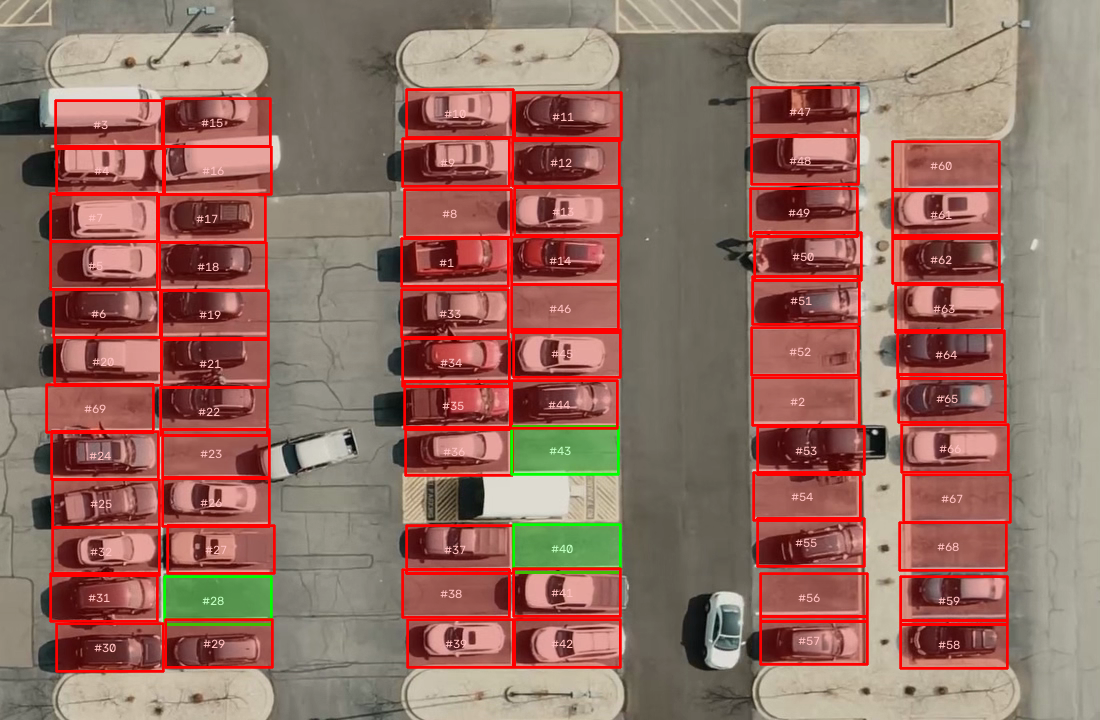
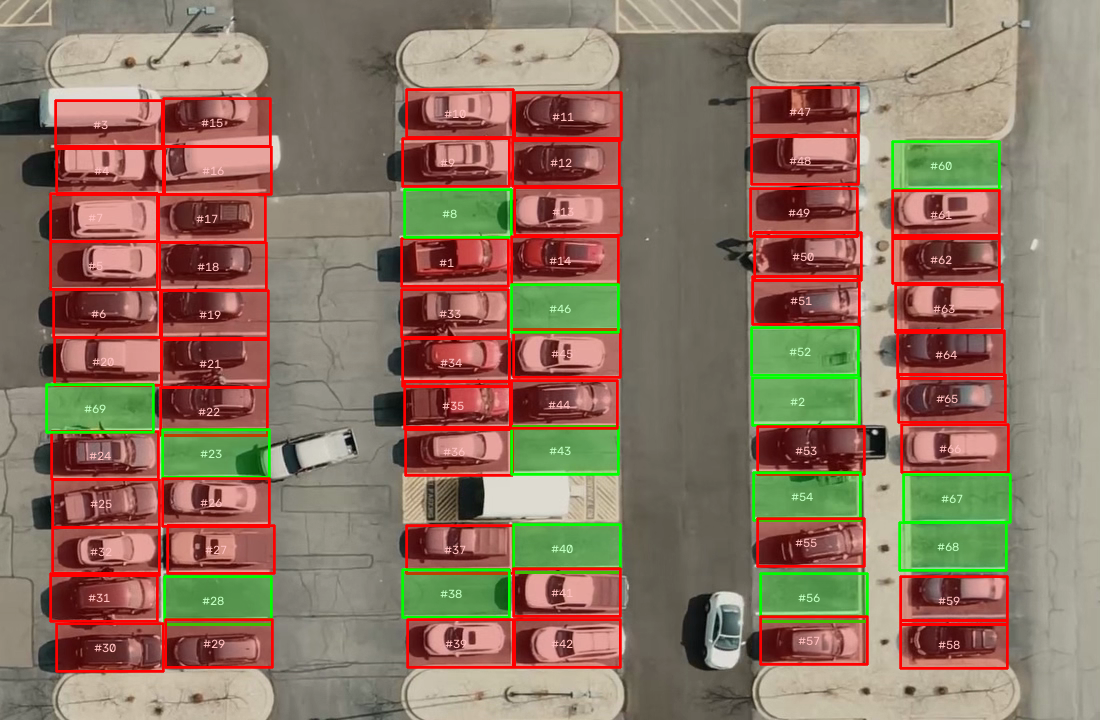
Fix parking slot false positives

diff --git a/Project1/src/detector.py b/Project1/src/detector.py
@@ -2,9 +2,8 @@ import cv2
 import numpy as np
 from ultralytics import YOLO
 import src.config as config
-from src.geometry import calculate_overlap_ios
 from src.traditional_cv import run_traditional_cv_pipeline, calculate_slot_density
-from src.geometry import calculate_overlap_ios, is_center_in_slot
+from src.geometry import calculate_overlap_ios, is_center_in_slot, shrink_polygon
 
 class ParkingOccupancyDetector:
     def __init__(self, model_name=config.YOLO_MODEL_NAME):
@@ -12,7 +11,7 @@ class ParkingOccupancyDetector:
         print(f"Loading YOLO model: {model_name}...")
         self.model = YOLO(model_name)
         
-    def detect_vehicles(self, frame, conf_threshold=0.25):
+    def detect_vehicles(self, frame, conf_threshold=0.10):
         """
         Run YOLO inference and filter predictions to keep only vehicle class IDs.
         Returns a list of bboxes: [x_min, y_min, x_max, y_max, confidence, class_id]
@@ -54,7 +53,9 @@ class ParkingOccupancyDetector:
             slot_id = slot["id"]
             points = slot["points"]
             
-            cv_density = calculate_slot_density(dilated_edges, points)
+            # Shrink points to exclude slot boundary lines from classical edge count
+            shrunk_points = shrink_polygon(points, factor=config.SHRINK_FACTOR)
+            cv_density = calculate_slot_density(dilated_edges, shrunk_points)
             
             center_match = False
             max_overlap = 0.0

diff --git a/Project1/src/config.py b/Project1/src/config.py
@@ -17,11 +17,14 @@ SLOTS_CONFIG_PATH = os.path.join(DATA_DIR, "parking_slots.json")
 # Traditional CV Pipeline Parameters
 CLAHE_CLIP_LIMIT = 2.0
 CLAHE_GRID_SIZE = (8, 8)
-GAUSSIAN_BLUR_KERNEL = (3, 3)
+GAUSSIAN_BLUR_KERNEL = (5, 5)
 CANNY_LOW_THRESHOLD = 50
 CANNY_HIGH_THRESHOLD = 150
 MORPHOLOGY_KERNEL_SIZE = (3, 3)
 MORPHOLOGY_ITERATIONS = 1
+
+# Shrink slot polygon inward for edge density check (avoids boundary lines)
+SHRINK_FACTOR = 0.75
 
 # Occupancy Decisions
 CV_OCCUPANCY_THRESHOLD = 0.10
@@ -31,3 +34,4 @@ CV_FALLBACK_THRESHOLD = 0.18
 YOLO_MODEL_NAME = "yolov8n.pt"
 VEHICLE_CLASS_IDS = [2, 3, 5, 7]   # COCO Classes: 2=car, 3=motorcycle, 5=bus, 7=truck
 YOLO_OVERLAP_THRESHOLD = 0.35
+YOLO_CONFIDENCE_THRESHOLD = 0.10  

diff --git a/Project1/src/geometry.py b/Project1/src/geometry.py
@@ -71,3 +71,13 @@ def is_center_in_slot(points, bbox):
     contour = np.array(points, dtype=np.float32)
     result = cv2.pointPolygonTest(contour, (cx, cy), False)
     return result >= 0
+
+def shrink_polygon(points, factor=0.75):
+    """
+    Shrink the polygon points inward toward its centroid.
+    Helps avoid selecting slot boundary lines for traditional CV edge calculations.
+    """
+    poly = np.array(points, dtype=np.float32)
+    centroid = np.mean(poly, axis=0)
+    shrunk_poly = centroid + factor * (poly - centroid)
+    return shrunk_poly.astype(np.int32).tolist()
